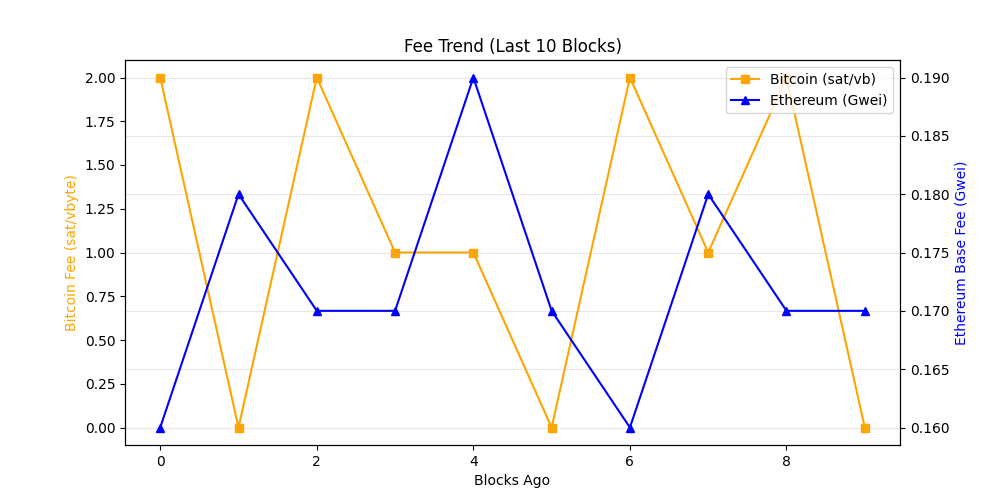
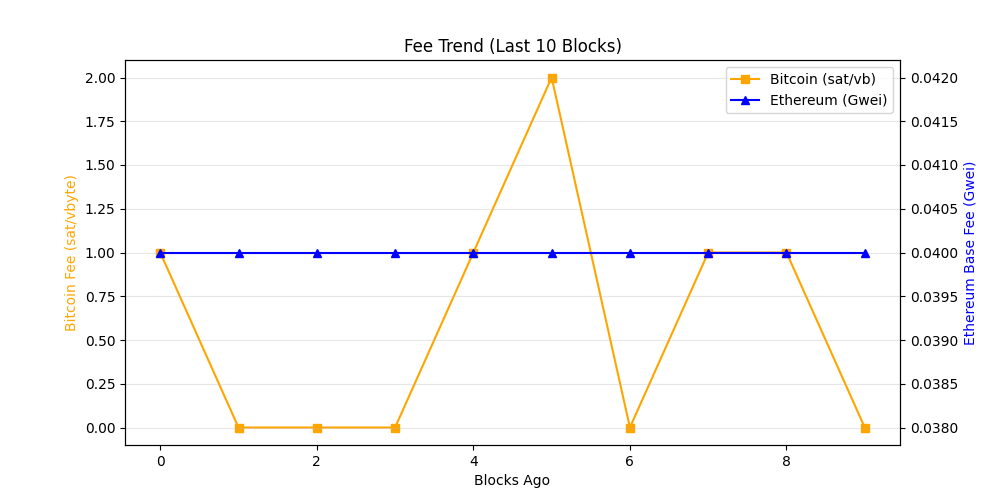
chore: update on-chain dashboard

diff --git a/README.md b/README.md
@@ -19,7 +19,7 @@ The README itself acts as the dashboard and is regenerated automatically on a 6 
 demonstrating a production-style, infrastructure-focused observability workflow rather
 than a traditional UI-driven approach.
 
-_Last updated: 2026-04-12 19:07 UTC_
+_Last updated: 2026-04-13 03:52 UTC_
 
 ## API Usage (GetBlock.io)
 - Calls used: **24**
@@ -27,8 +27,8 @@ _Last updated: 2026-04-12 19:07 UTC_
 ## Network Metrics
 | Chain | Block Height | TX Count | TPS (10 blk avg) | Block Util | Avg Fee |
 |------|-------------|----------|------------------|------------|---------|
-| Ethereum | 24865662 | 111 | 9.25 | 31.44% | 0.2 Gwei |
-| Bitcoin | 944775 | 6604 | 23.01 | 99.8% | N/A |
+| Ethereum | 24868278 | 391 | 32.58 | 56.88% | 0.0 Gwei |
+| Bitcoin | 944831 | 6352 | 30.54 | 99.79% | N/A |
 
 ## Visuals
 ### Transactions Trend
@@ -43,8 +43,7 @@ _Last updated: 2026-04-12 19:07 UTC_
 ## Whale Alerts (latest block)
 - Transaction hashes are truncated for readability.
 - Full hashes are available in `dashboards/metrics.json`
-- Bitcoin | 146.25 BTC | `699c51fbd6b1…`
-- Bitcoin | 146.35 BTC | `f42785fe11cf…`
+- Bitcoin | 142.05 BTC | `e501ac332ec9…`
 
 ## Run locally
 
